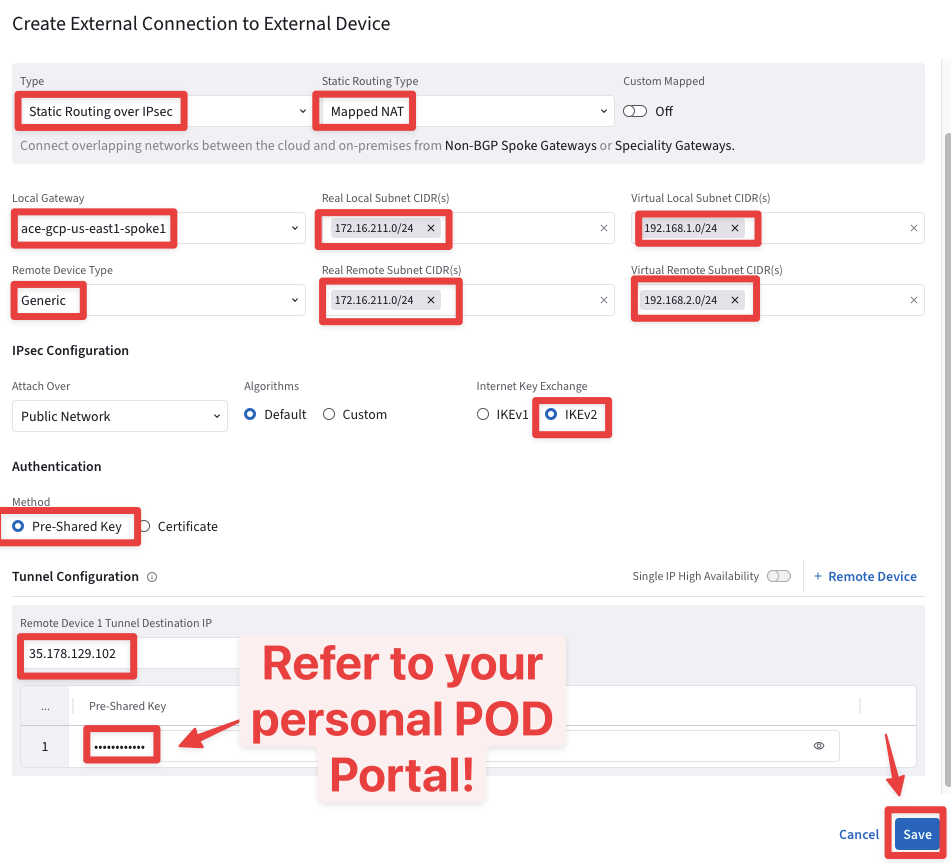
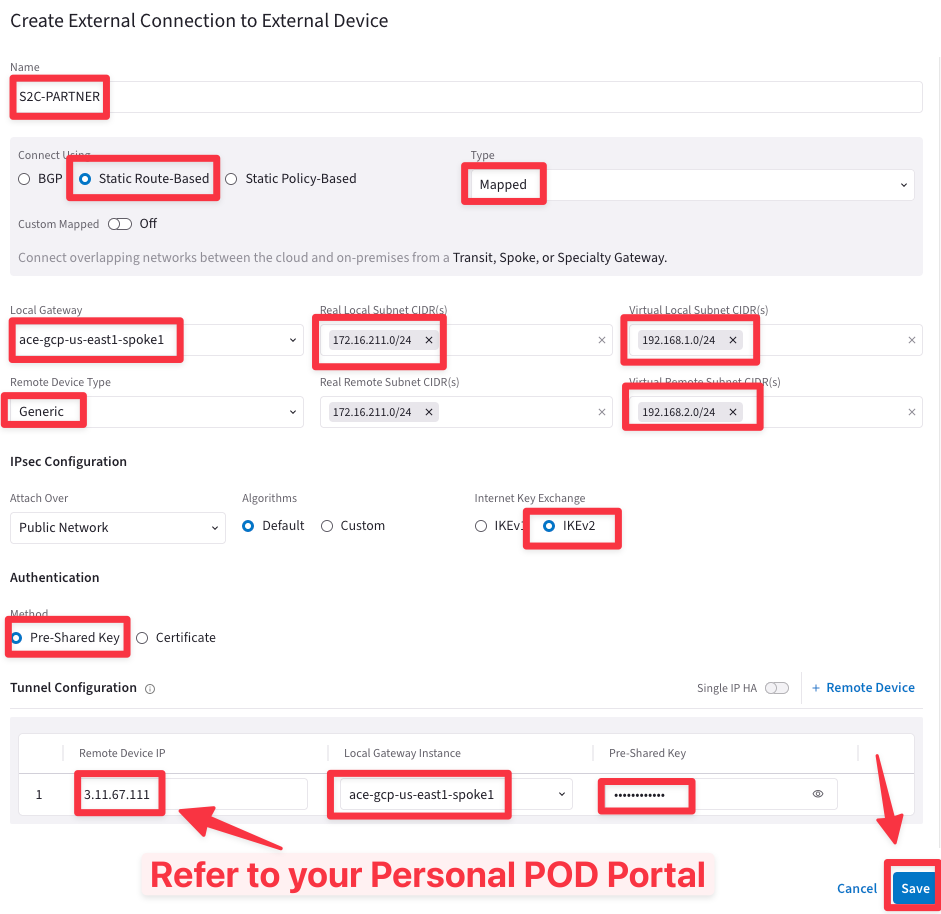
update for ops

diff --git a/ace_ops/docs/lab6.md b/ace_ops/docs/lab6.md
@@ -115,9 +115,9 @@ Configure the new Site-to-Cloud (S2C) connection according to the schema below:
 
 - **Name**: <span style='color:#479608'>S2C-PARTNER</span>
 
-- **Connect Using:**: <span style='color:#479608'>Static-Route over IPSec</span>
+- **Connect Using**: <span style='color:#479608'>Static Route-Based</span>
 
-- **Static Routing Type**: <span style='color:#479608'>Mapped NAT</span>
+- **Type**: <span style='color:#479608'>Mapped</span>
 
 - **Local Gateway**: <span style='color:#479608'>ace-gcp-us-east1-spoke1</span>
 
@@ -133,9 +133,9 @@ Configure the new Site-to-Cloud (S2C) connection according to the schema below:
 
 - **IKEv2**: <span style='color:#479608'>ON</span>
 
-- **Authentication Method**: <span style='color:#479608'>Pre-Shared Key</span>
+- **Authentication**: <span style='color:#479608'>Pre-Shared Key</span>
 
-- **Remote Device 1 Tunnel Destination IP**:  <span style='color:tomato'>please refer to the Note below</span>
+- **Remote Device IP**:  <span style='color:tomato'>please refer to the Note below</span>
 
 ```{note}
 Use the “**dig partner-csr-public.pod#.aviatrixlab.com +short**” command <ins>from your personal laptop terminal</ins> to resolve the symbolic public name of the OnPrem-Partner CSR router and retrieve the <ins>REMOTE GATEWAY PUBLIC IP address</ins>, as depicted in the example below.
@@ -163,6 +163,8 @@ align: center
 ---
 Nslookup 
 ```
+
+-  **Local gateway Instance**: <span style='color:#479608'>ace-gcp-us-east1-spoke1</span>
   -  **Pre-Shared Key**: <span style='color:#479608'>Aviatrix123#</span>
 
 ```{important}

diff --git a/ace_ops/docs/lab7.md b/ace_ops/docs/lab7.md
@@ -56,7 +56,7 @@ Default Route injected by the AVX Controller
 ### 2.2 Secure Cloud Egress on VNet1 - TEST VNET
 
 ```{caution}
-Replicate the steps applied to VNet2 by enabling the **Egress control** on the **_azure-east-us-spoke1_** VNet. The objective is to use the Spoke1 VNet as a test environment to identify the permitted domains.
+Replicate the steps applied to VNet2 by enabling the **Egress control** on the **_azure-east-us-spoke1_** VNet. The objective is to use the Spoke1 VNet <ins>as a test environment</ins> to identify the permitted domains.
 ```
 
 - Navigate to **CoPilot > Security > Egress > Egress VPC/VNets** and then click on the `"Enable Local Egress on VPC/VNets"` button, then select the **_ace-azure-east-us-spoke1_** VPC.
